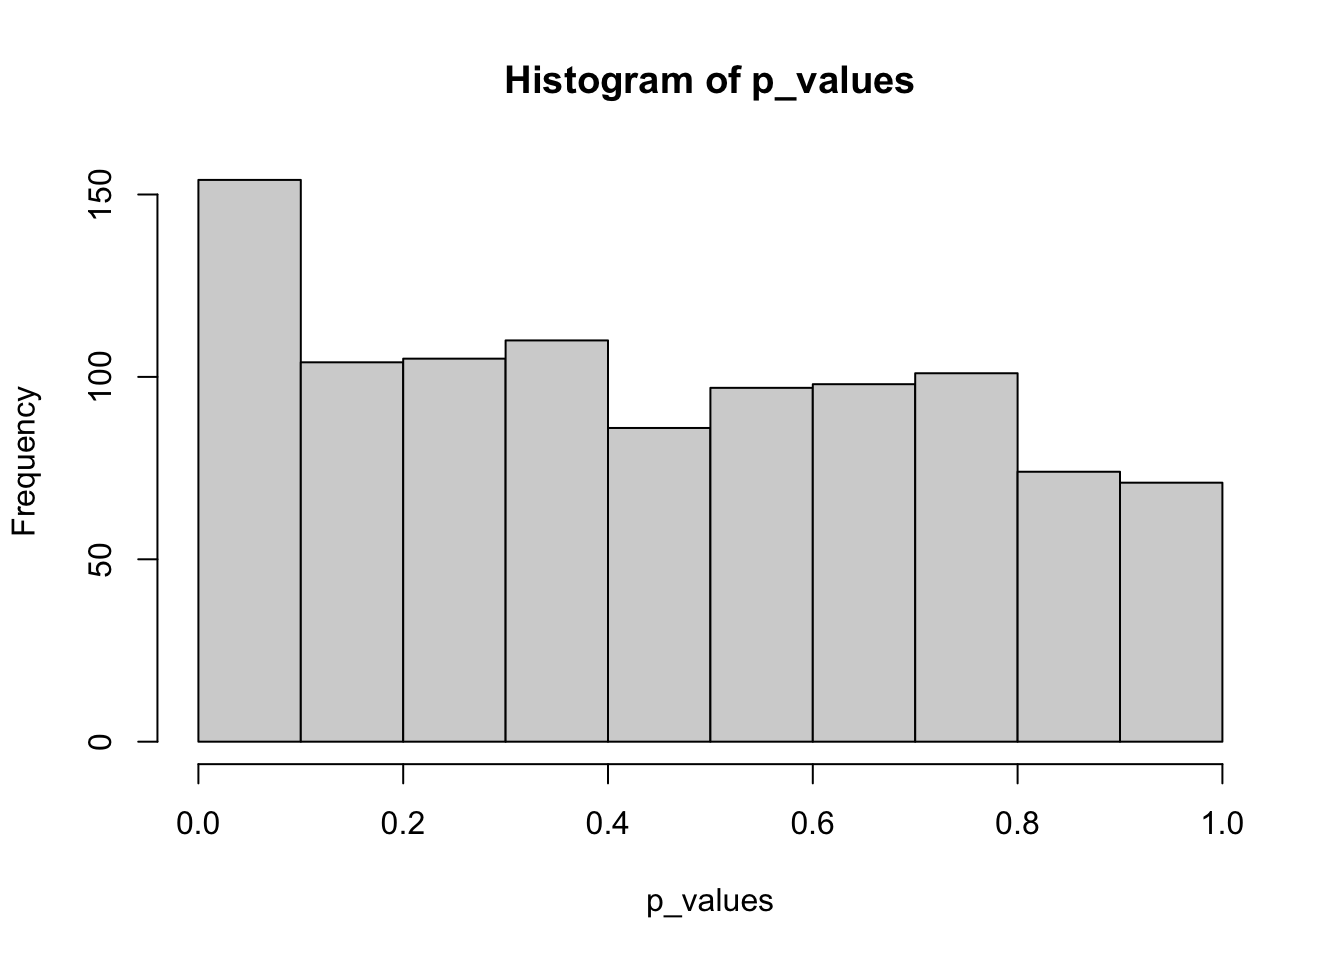
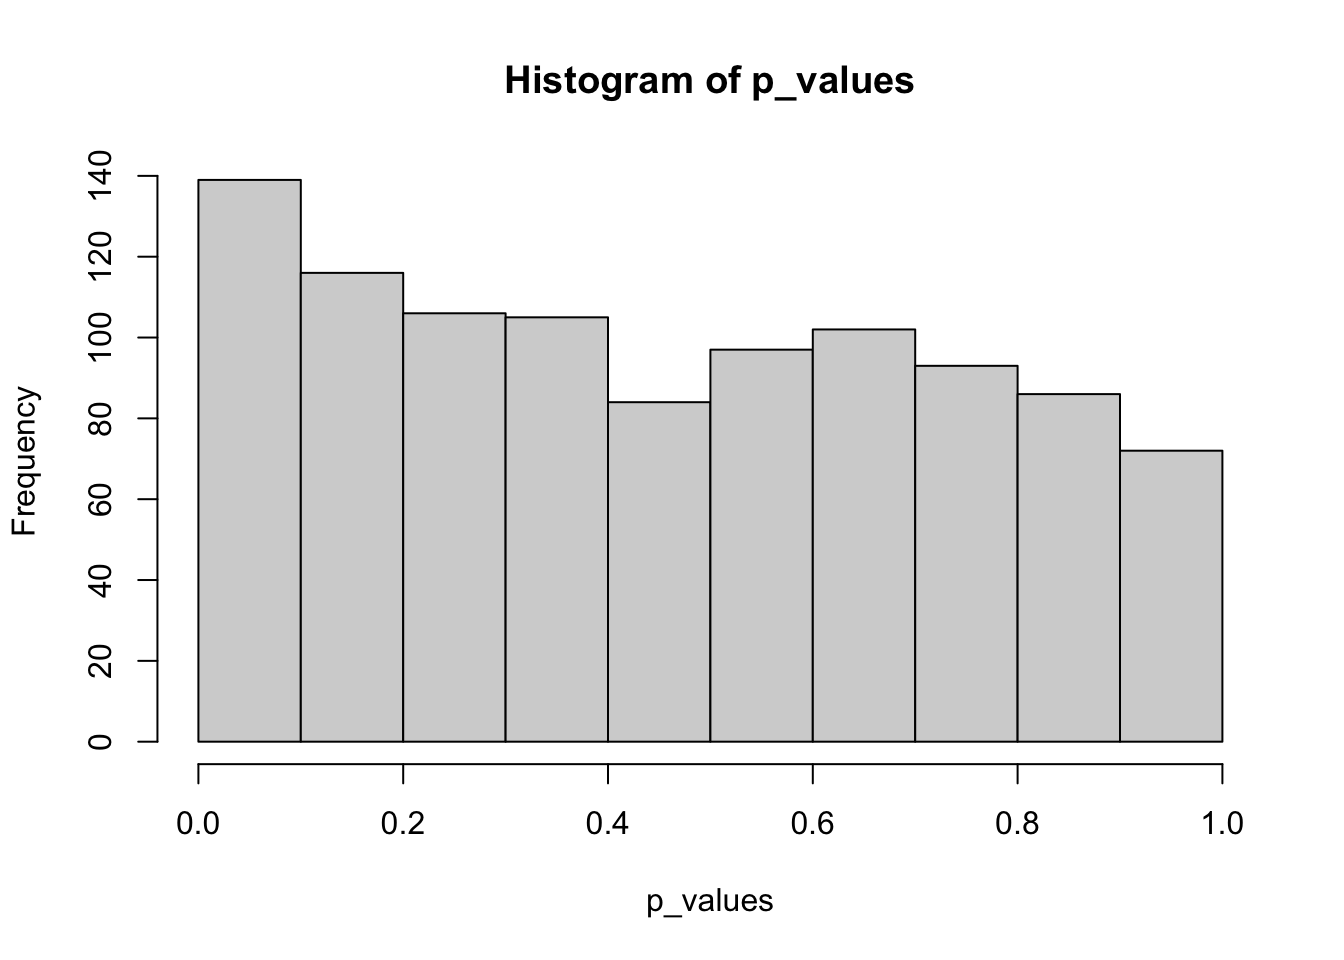
Minor update to Lab9

diff --git a/public/courses/PSYC7709G/lessons/lab-9-rm-anova/index.html b/public/courses/PSYC7709G/lessons/lab-9-rm-anova/index.html
@@ -30,7 +30,7 @@
   
     
   
-  <meta name="description" content="library(tidyverse) ## ── Attaching packages ─────────────────────────────────────── tidyverse 1.3.1 ── ## ✔ ggplot2 3.3.6 ✔ purrr 0.3.4 ## ✔ tibble 3.1.7 ✔ dplyr 1.0.9 ## ✔ tidyr 1.2.0 ✔ stringr 1." />
+  <meta name="description" content="library(tidyverse) library(foreach) (1) Create an R script that can generate simulated data for the following repeated measures design. The dependent variable is assumed to come from a normal distribution with mean = 0 and standard deviation = 1." />
 
   
   <link rel="alternate" hreflang="en-us" href="https://djshives.netlify.app/courses/psyc7709g/lessons/lab-9-rm-anova/" />
@@ -296,7 +296,7 @@
   <meta property="og:site_name" content="djshives" />
   <meta property="og:url" content="https://djshives.netlify.app/courses/psyc7709g/lessons/lab-9-rm-anova/" />
   <meta property="og:title" content="Lab 9 - RM ANOVA | djshives" />
-  <meta property="og:description" content="library(tidyverse) ## ── Attaching packages ─────────────────────────────────────── tidyverse 1.3.1 ── ## ✔ ggplot2 3.3.6 ✔ purrr 0.3.4 ## ✔ tibble 3.1.7 ✔ dplyr 1.0.9 ## ✔ tidyr 1.2.0 ✔ stringr 1." /><meta property="og:image" content="https://djshives.netlify.app/media/icon_hua2ec155b4296a9c9791d015323e16eb5_11927_512x512_fill_lanczos_center_3.png" />
+  <meta property="og:description" content="library(tidyverse) library(foreach) (1) Create an R script that can generate simulated data for the following repeated measures design. The dependent variable is assumed to come from a normal distribution with mean = 0 and standard deviation = 1." /><meta property="og:image" content="https://djshives.netlify.app/media/icon_hua2ec155b4296a9c9791d015323e16eb5_11927_512x512_fill_lanczos_center_3.png" />
     <meta property="twitter:image" content="https://djshives.netlify.app/media/icon_hua2ec155b4296a9c9791d015323e16eb5_11927_512x512_fill_lanczos_center_3.png" /><meta property="og:locale" content="en-us" />
   
     
@@ -926,21 +926,8 @@
             
 
 
-<pre class="r"><code>library(tidyverse)</code></pre>
-<pre><code>## ── Attaching packages ─────────────────────────────────────── tidyverse 1.3.1 ──</code></pre>
-<pre><code>## ✔ ggplot2 3.3.6     ✔ purrr   0.3.4
-## ✔ tibble  3.1.7     ✔ dplyr   1.0.9
-## ✔ tidyr   1.2.0     ✔ stringr 1.4.0
-## ✔ readr   2.1.2     ✔ forcats 0.5.1</code></pre>
-<pre><code>## ── Conflicts ────────────────────────────────────────── tidyverse_conflicts() ──
-## ✖ dplyr::filter() masks stats::filter()
-## ✖ dplyr::lag()    masks stats::lag()</code></pre>
-<pre class="r"><code>library(foreach)</code></pre>
-<pre><code>## 
-## Attaching package: &#39;foreach&#39;</code></pre>
-<pre><code>## The following objects are masked from &#39;package:purrr&#39;:
-## 
-##     accumulate, when</code></pre>
+<pre class="r"><code>library(tidyverse)
+library(foreach)</code></pre>
 <div id="create-an-r-script-that-can-generate-simulated-data-for-the-following-repeated-measures-design." class="section level2">
 <h2>(1) Create an R script that can generate simulated data for the following repeated measures design.</h2>
 <ol style="list-style-type: lower-alpha">
@@ -999,7 +986,7 @@ one_factor_rm_sim &lt;- make_subject_data(num_subs, lev_nam, base_mean, base_sd,
 <pre class="r"><code>anova_summary &lt;- summary(aov(DV ~ IV + Error(subject), data = one_factor_rm_sim))
 
 anova_summary[[2]][[1]]$`Pr(&gt;F)`[1]</code></pre>
-<pre><code>## [1] 0.509994</code></pre>
+<pre><code>## [1] 0.1399453</code></pre>
 <pre class="r"><code>p_values &lt;- c()
 
 for(i in 1:1000) {

diff --git a/content/courses/PSYC7709G/lessons/Lab9.html b/content/courses/PSYC7709G/lessons/Lab9.html
@@ -20,21 +20,8 @@ projects: []
 
 
 
-<pre class="r"><code>library(tidyverse)</code></pre>
-<pre><code>## ── Attaching packages ─────────────────────────────────────── tidyverse 1.3.1 ──</code></pre>
-<pre><code>## ✔ ggplot2 3.3.6     ✔ purrr   0.3.4
-## ✔ tibble  3.1.7     ✔ dplyr   1.0.9
-## ✔ tidyr   1.2.0     ✔ stringr 1.4.0
-## ✔ readr   2.1.2     ✔ forcats 0.5.1</code></pre>
-<pre><code>## ── Conflicts ────────────────────────────────────────── tidyverse_conflicts() ──
-## ✖ dplyr::filter() masks stats::filter()
-## ✖ dplyr::lag()    masks stats::lag()</code></pre>
-<pre class="r"><code>library(foreach)</code></pre>
-<pre><code>## 
-## Attaching package: &#39;foreach&#39;</code></pre>
-<pre><code>## The following objects are masked from &#39;package:purrr&#39;:
-## 
-##     accumulate, when</code></pre>
+<pre class="r"><code>library(tidyverse)
+library(foreach)</code></pre>
 <div id="create-an-r-script-that-can-generate-simulated-data-for-the-following-repeated-measures-design." class="section level2">
 <h2>(1) Create an R script that can generate simulated data for the following repeated measures design.</h2>
 <ol style="list-style-type: lower-alpha">
@@ -93,7 +80,7 @@ one_factor_rm_sim &lt;- make_subject_data(num_subs, lev_nam, base_mean, base_sd,
 <pre class="r"><code>anova_summary &lt;- summary(aov(DV ~ IV + Error(subject), data = one_factor_rm_sim))
 
 anova_summary[[2]][[1]]$`Pr(&gt;F)`[1]</code></pre>
-<pre><code>## [1] 0.509994</code></pre>
+<pre><code>## [1] 0.1399453</code></pre>
 <pre class="r"><code>p_values &lt;- c()
 
 for(i in 1:1000) {

diff --git a/public/post/writing-technical-content/index.html b/public/post/writing-technical-content/index.html
@@ -837,7 +837,7 @@ data.head()
 <p>Demo:</p>
 
 
-<div id="chart-687145329" class="chart"></div>
+<div id="chart-795384162" class="chart"></div>
 <script>
   (function() {
     let a = setInterval( function() {
@@ -847,7 +847,7 @@ data.head()
       clearInterval( a );
 
       Plotly.d3.json("./line-chart.json", function(chart) {
-        Plotly.plot('chart-687145329', chart.data, chart.layout, {responsive: true});
+        Plotly.plot('chart-795384162', chart.data, chart.layout, {responsive: true});
       });
     }, 500 );
   })();
